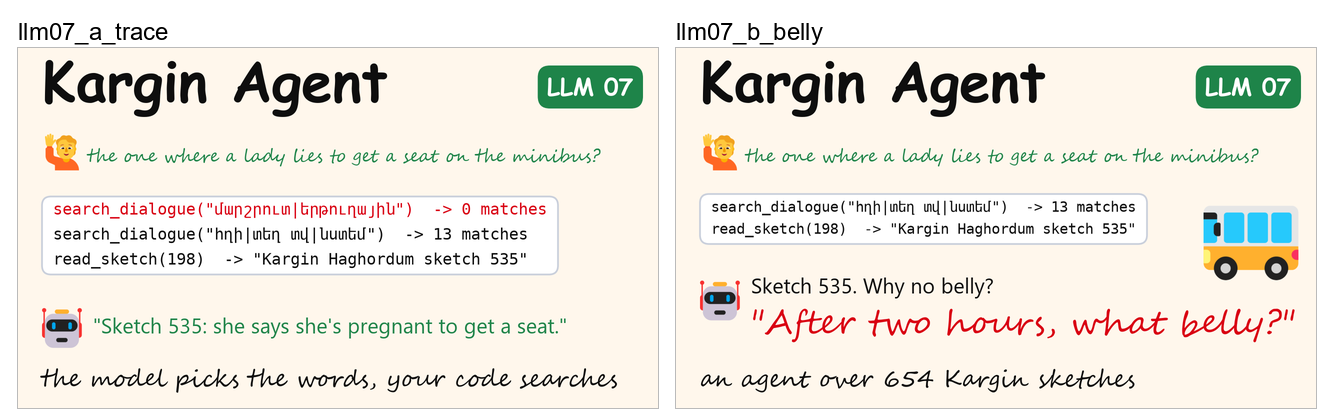
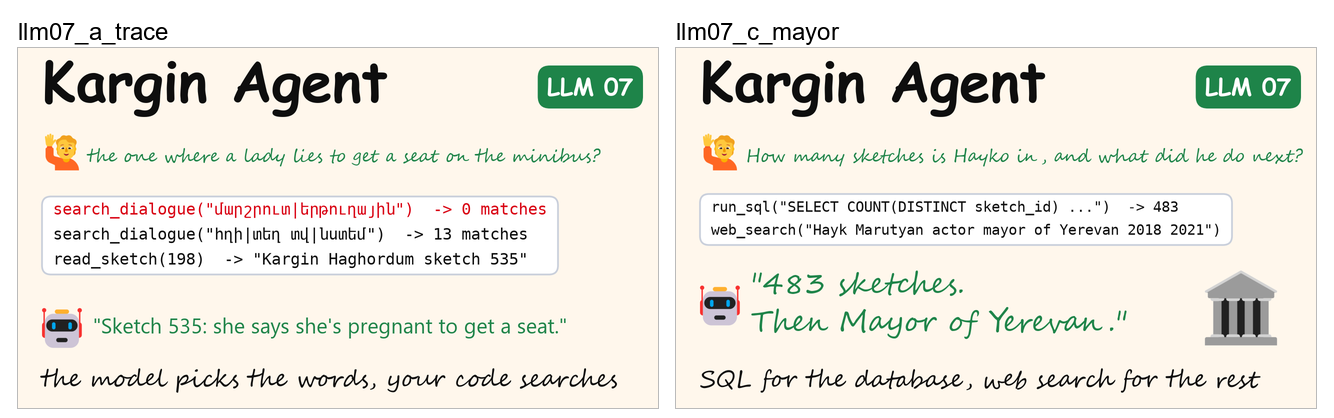
LLM [07]: title 'Kargin Agent: Tool Use', thumbnail option c (Hayko -> mayor) replaces the rejected punchline
Claude-Session: https://claude.ai/code/session_01Ts6q5GU5tgfuTCAfsmsnUc

diff --git a/scripts/make_llm_thumbnails.py b/scripts/make_llm_thumbnails.py
@@ -519,8 +519,9 @@ def llm06_servers(ax):
 
 # Video 07, the Kargin sketch agent (recording of 2026-11-25; course repo llms/04_kargin_agent/): cell 39 of
 # 07_kargin_agent_solution.ipynb, the minibus question, solved in 3 tool calls (0, then 13 matches, then sketch 198 =
-# "Kargin Haghordum sketch 535"); the model's summary: "When asked why she has no belly, she replies, 'After two
-# hours, what belly?'".
+# "Kargin Haghordum sketch 535"). Cell 43: one step, two tools in parallel, run_sql (483 sketches) and web_search
+# ("Hayk Marutyan actor mayor of Yerevan 2018 2021", 3 pages) -> "483, Mayor of Yerevan". The sketch's own punchline
+# in the minibus summary was rejected (the user, 2026-11-25: "not the best for this course").
 MINIBUS_Q = "the one where a lady lies to get a seat on the minibus?"
 MINIBUS_TRACE = ['search_dialogue("մարշրուտ|երթուղային")  -> 0 matches',
                  'search_dialogue("հղի|տեղ տվ|նստեմ")  -> 13 matches',
@@ -539,16 +540,18 @@ def llm07_trace(ax):
             **HAND)
 
 
-def llm07_belly(ax):
-    """The sketch's own punchline, as the agent summarised it; the trace stays small."""
+def llm07_mayor(ax):
+    """The web-search example: the database gives the count, the web gives what Hayko did after the show."""
     put_image(ax, emoji("\U0001F64B", 300), 88, 512, 74)            # raising hand
-    ax.text(140, 492, MINIBUS_Q, fontsize=25, color=GREEN, **HAND)
-    code_box(ax, 48, 400, MINIBUS_TRACE[1:], size=21, step=44)
-    put_image(ax, emoji("\U0001F916", 300), 88, 215, 80)            # robot
-    ax.text(150, 240, "Sketch 535. Why no belly?", fontsize=30, color=CHARCOAL, va="center", family="Segoe UI")
-    ax.text(150, 165, "\"After two hours, what belly?\"", fontsize=48, color=RED, va="center", **HAND)
-    ax.text(48, 55, "an agent over 654 Kargin sketches", fontsize=34, color=CHARCOAL, va="center", **HAND)
-    put_image(ax, emoji("\U0001F68C", 300), 1150, 330, 150)         # bus
+    ax.text(140, 492, "How many sketches is Hayko in, and what did he do next?", fontsize=25, color=GREEN, **HAND)
+    code_box(ax, 48, 400, ['run_sql("SELECT COUNT(DISTINCT sketch_id) ...")  -> 483',
+                           'web_search("Hayk Marutyan actor mayor of Yerevan 2018 2021")'], size=21, step=46)
+    put_image(ax, emoji("\U0001F916", 300), 88, 205, 80)            # robot
+    ax.text(150, 245, "\"483 sketches.", fontsize=42, color=GREEN, va="center", **HAND)
+    ax.text(150, 170, "Then Mayor of Yerevan.\"", fontsize=42, color=GREEN, va="center", **HAND)
+    ax.text(48, 55, "SQL for the database, web search for the rest", fontsize=34, color=CHARCOAL, va="center",
+            **HAND)
+    put_image(ax, emoji("\U0001F3DB", 300), 1130, 200, 150)         # classical building
 
 
 LESSONS = [
@@ -571,7 +574,7 @@ LESSONS = [
 
 OPTIONS = {
     "LLM07": [("llm07_a_trace", {"tag": "LLM 07", "title": "Kargin Agent", "draw": llm07_trace}),
-              ("llm07_b_belly", {"tag": "LLM 07", "title": "Kargin Agent", "draw": llm07_belly})],
+              ("llm07_c_mayor", {"tag": "LLM 07", "title": "Kargin Agent", "draw": llm07_mayor})],
     # 2026-11-18: "if there is a genuine opportunity for a creative thumbnail, do it. If not, don't force it."
     "LLM05": [("llm05_a_email", {"tag": "LLM 05", "title": "Tool Calling", "draw": llm05_email}),
               ("llm05_b_ararat", {"tag": "LLM 05", "title": "Tool Calling", "draw": llm05_ararat})],

diff --git a/PLANNER.md b/PLANNER.md
@@ -31,7 +31,7 @@ this file, so update your own rows AND look over the others before saving.
 | LLM [04] LLM APIs practical `xdiq1N3KBPg` (recorded 2026-11-11, 56:47) | `DONE` 2026-11-12 00:57 | Zoom -> Downloads (370 MB), uploaded and saved Unlisted; your 60 cuts -> 58, saved by Claude (DECISIONS #58, dialog 41:11), processed 2472 s; title "[04] LLM APIs" (yours), thumbnail LLM04 option d (request + usage, no meme: "were overdoing the fun"); description with 34 nested chapters (17 moved back 1 s on YouTube's captions), materials = the notebook on GitHub, corrections (Q6 both: Stripe/OpenRouter minute 2, reasoning tokens minute 39), read back, all 34 parsed; playlist [01]-[04] read back. Course repo e3fa3ee (pushed): `llms/02_decoding/04_llm_api.ipynb` + `results/04_api_ledger.json`. 2026-11-12: [03]'s materials line now links `llms/02_decoding/decoding.html` (Q2). Making it public: yours |
 
 | LLM [05] tool calling `7FhEiQBUgK0` + LLM [06] MCP, skills, orchestration `C4Zcf1K51FI` (one Zoom recording 2026-11-18, 2:02:31, lecture both) | `DONE` 2026-11-18 23:32 (materials links open) | Zoom ready 20:00, downloaded (473 MB); uploaded twice ([06] from a renamed copy: the same file joined the first upload, learning 2026-11-18-2203), saved Unlisted 20:40; break 0:59:32-1:15:33. [05]: your 94 cuts -> 88 (Q6 tiny cuts kept, `cut_list.py --min-cut`), saved 22:07 (dialog 45:08), processed; title "[05] Tool Calling & Agents" (Q4), thumbnail LLM05 Ararat (Q2), description + 38 chapters (21 moved back 1 s on YouTube's captions) + the 3-cents correction (Q8, kept Q9), in the playlist ([01]-[05] read back). [06]: your 100 cuts -> 96, saved 22:50 (dialog 37:12), processed 2233 s; title "[06] MCP, Skills & Orchestration", thumbnail LLM06 servers + skills (Q3), description + 38 chapters live (23 moved back 1-4 s on YouTube's captions). Blur: 3 custom blurs entered by Claude via Playwright (2:34:13-2:52:12, 3:25:13-3:55:05, 3:51:00-4:11:13), saved by you 23:2x; thumbnail redone (symmetric boxes, `cheese-making/` skill); in the playlist 23:32 ([01]-[06] read back). Materials: both TODO until llm_1_2's uncommitted tools_agents edits are committed, then rename xx_ -> 05_/06_ and link (Q5, Q7). Making both public: yours |
-| LLM [07] Kargin sketch agent (project) `X_Yzd3Z5jvw` (recorded 2026-11-25, 1:11:52) | `RUNNING` 2026-11-25 20:00 | Zoom ready ~19:00, downloaded (337 MB, 93 s); uploaded and saved Unlisted 19:36 (checks ~35 min), Armenian captions at once; no break. Plan: 41 cuts, 19.7 min (1:11:52 -> 52:11), 2 unticked (closing course plan, projects advice); frame sweep: nothing private. studio.html opened. Drafted on the plan: 43 chapters (verified), abstract, 4 titles, description (final/LLM07.txt, materials = the notebook + sketch_finder/ on GitHub), no corrections; thumbnail options llm07_a_trace, llm07_b_belly. -> `YOU` review the cuts on studio.html, pick a title and a thumbnail. Then: enter + save (DECISIONS #58), remap chapters, push metadata, playlist after Save |
+| LLM [07] Kargin sketch agent (project) `X_Yzd3Z5jvw` (recorded 2026-11-25, 1:11:52) | `RUNNING` 2026-11-25 20:00 | Zoom ready ~19:00, downloaded (337 MB, 93 s); uploaded and saved Unlisted 19:36 (checks ~35 min), Armenian captions at once; no break. Plan: 41 cuts, 19.7 min (1:11:52 -> 52:11), 2 unticked (closing course plan, projects advice); frame sweep: nothing private. studio.html opened. Drafted on the plan: 43 chapters (verified), abstract, 4 titles, description (final/LLM07.txt, materials = the notebook + sketch_finder/ on GitHub), no corrections; thumbnail options llm07_a_trace, llm07_c_mayor (b, the belly punchline, rejected: "not the best for this course"); title "[07] Kargin Agent: Tool Use" (Q13, the user's direction). -> `YOU` review the cuts on studio.html, pick a thumbnail (a or c). Then: enter + save (DECISIONS #58), remap chapters, push metadata, playlist after Save |
 
 ML48, ML49 and the Claude Code workshop: the other session's local `corrections.txt` / `description.txt` edits were
 checked against live on 2026-11-03 (leading spaces and the title header ignored). ML49 and the workshop matched;
